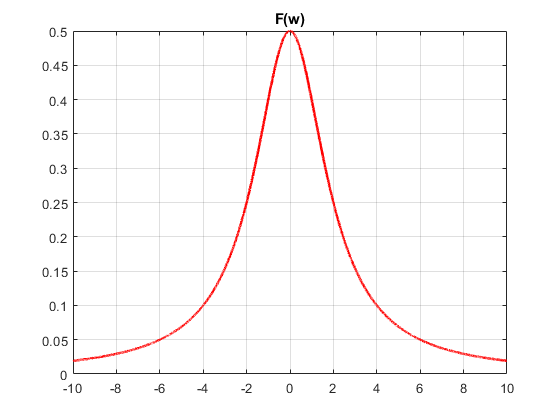
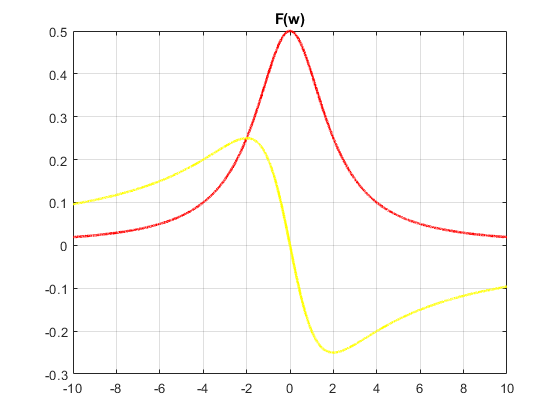
Add files via upload

diff --git a/index.html b/index.html
@@ -105,7 +105,7 @@ ans =
 w=-2:0.001:2;
 a=1;
 f_w=fun1(a,w);
-figura(w,f_w)
+figura(w,f_w,<span class="string">'f(w)'</span>)
 </pre><img vspace="5" hspace="5" src="P022_01.png" alt=""> <h2 id="9">3. Funcion para graficar en <img src="P022_eq03442895190380135198.png" alt="$R$"> a <img src="P022_eq02243227017317752302.png" alt="$R^2$"></h2><p>% Construya una funci&oacute;n que gr&aacute;fique funciones de <img src="P022_eq07287922491706758619.png" alt="$f:R\rightarrow R^2$"> en el formato de su elecci&oacute;n y pruebe su c&oacute;digo mostrando la gr&aacute;fica de la transformada de Fourier <img src="P022_eq14837990414550488255.png" alt="$F(w)$"> en <img src="P022_eq01315095555081819470.png" alt="$[-10,10]$"> de la funci&oacute;n <img src="P022_eq16179711886080607310.png" alt="$f(t)=e^{-2t}u(t)$">, puede utilizar una funci&oacute;n anonima para este fin, no debe incluir el c&oacute;digo, solo el uso de la funci&oacute;n para mostrarla gr&aacute;fica. Reporte la gr&aacute;fica de <img src="P022_eq09478123530129115431.png" alt="$f(t)$"> de <img src="P022_eq05003862285080136837.png" alt="$[-1,5]$"> (recuerde que ya tiene una funci&oacute;n para esto). Reporte del espectro de magnitud y del espectro de fase en $[-10,10]. %</p><pre class="codeinput">clc
 clear <span class="string">all</span>;
 close <span class="string">all</span>;
@@ -122,7 +122,7 @@ w = [-10:0.001:10];
 F_w = 1./(2 + w.*1i);
 
 
-grafica3(t,f_t,<span class="string">'f(t)'</span>)
+figura(t,f_t,<span class="string">'f(t)'</span>)
 
 
 grafica3(w,F_w,<span class="string">'F(w)'</span>)
@@ -131,7 +131,7 @@ z=w./2;
 theta=-atan(z);
 
 
-grafica3(w,theta,<span class="string">'&lt;w'</span>)
+figura(w,theta,<span class="string">'&lt;w'</span>)
 </pre><pre class="codeoutput"> 
 f_t =
  
@@ -142,7 +142,6 @@ F_w =
  
 1/(2 + w*1i)
  
-Warning: Imaginary parts of complex X and/or Y arguments ignored 
 </pre><img vspace="5" hspace="5" src="P022_02.png" alt=""> <img vspace="5" hspace="5" src="P022_03.png" alt=""> <img vspace="5" hspace="5" src="P022_04.png" alt=""> <h2 id="10">4. Ejemplos del libro de texto (Lathi).</h2><div><ul><li>Ejercicio 1.1</li></ul></div><p>gr&aacute;fica 1</p><pre class="codeinput">clear;
 clc;
 t=(-2:2);
@@ -624,7 +623,7 @@ fun1(a,w)
 w=-2:0.001:2;
 a=1;
 f_w=fun1(a,w);
-figura(w,f_w)
+figura(w,f_w,'f(w)')
 
 %%      3. Funcion para graficar en $R$ a $R^2$
 % %
@@ -651,7 +650,7 @@ w = [-10:0.001:10];
 F_w = 1./(2 + w.*1i);
 
 
-grafica3(t,f_t,'f(t)')
+figura(t,f_t,'f(t)')
 
 
 grafica3(w,F_w,'F(w)')
@@ -660,7 +659,7 @@ z=w./2;
 theta=-atan(z);
 
 
-grafica3(w,theta,'<w')
+figura(w,theta,'<w')
 
 %%      4. Ejemplos del libro de texto (Lathi).
 %
